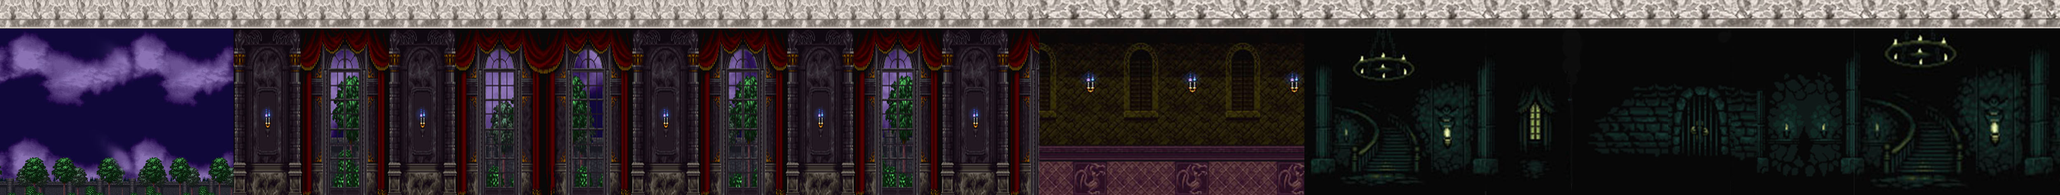
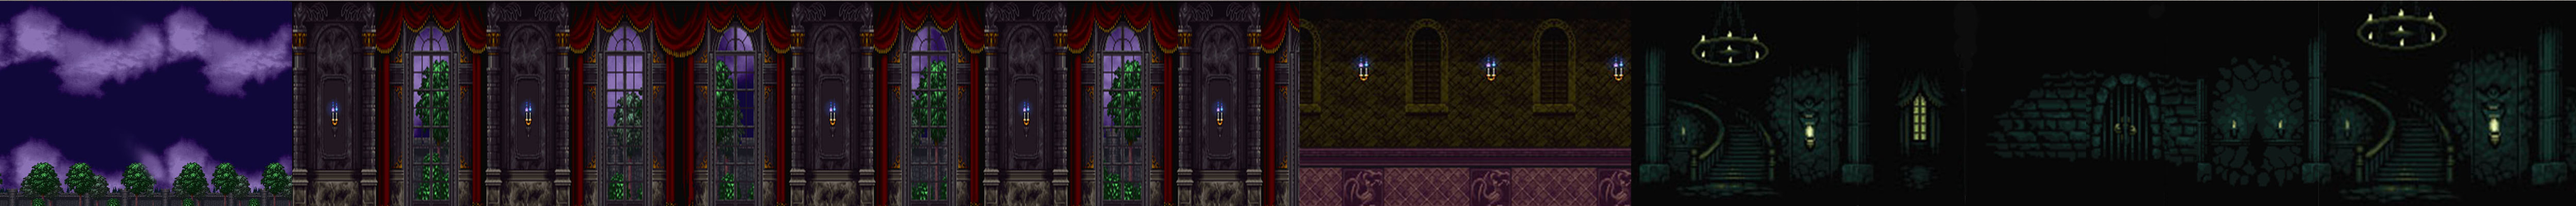
Modification de la map (tab2D et services)

diff --git a/src/app/services/map.service.ts b/src/app/services/map.service.ts
@@ -1,0 +1,28 @@
+import { Injectable } from '@angular/core';
+
+@Injectable({
+  providedIn: 'root'
+})
+
+export class MapService {
+
+  constructor() { }
+
+  public map = [
+    [2, 2, 2, 2, 2, 2, 2, 2, 2, 2, 2, 2, 2, 2, 2, 2, 2, 2, 2, 2, 2, 2, 2, 2, 2, 2, 2, 2, 2, 2, 2, 2, 2, 2, 2, 2, 2, 2, 2, 2, 2, 2, 2, 2, 2, 2, 2, 2, 2, 2, 2, 2, 2, 2, 2, 2, 2, 2, 2, 2, 2, 2, 2, 2, 2, 2, 2, 2, 2, 2, 2, 2, 2, 2, 2, 2, 2, 2, 2, 2, 2, 2, 2, 2, 2, 2, 2, 2, 2, 2, 2, 2, 2, 2, 2, 2, 2, 2, 2, 2, 2, 2, 2, 2, 2, 2, 2, 2, 2, 2, 2, 2, 2, 2, 2, 2, 2, 2, 2, 2, 2, 2, 2, 2, 2, 2, 2, 2, 2, 2, 2, 2, 2, 2, 2, 2, 2, 2, 2, 2],
+    [0, 0, 0, 0, 0, 0, 0, 0, 0, 0, 0, 0, 0, 0, 0, 0, 0, 0, 0, 0, 0, 0, 0, 0, 0, 0, 0, 0, 0, 0, 0, 0, 0, 0, 0, 0, 0, 0, 0, 0, 0, 0, 0, 0, 0, 0, 0, 0, 0, 0, 0, 0, 0, 0, 0, 0, 0, 0, 0, 0, 0, 0, 0, 3, 0, 0, 0, 0, 0, 0, 0, 0, 0, 0, 0, 0, 0, 0, 0, 3, 0, 0, 0, 0, 0, 0, 0, 0, 0, 0, 0, 0, 0, 0, 0, 0, 0, 0, 0, 0, 0, 0, 0, 0, 0, 0, 0, 0, 0, 0, 0, 0, 0, 0, 0, 0, 0, 0, 0, 0, 0, 0, 0, 0, 3, 0, 0, 0, 0, 0, 0, 0, 0, 0, 0, 0, 0, 0, 0, 0],
+    [0, 0, 0, 0, 0, 0, 0, 0, 0, 0, 0, 0, 0, 0, 0, 0, 0, 0, 0, 0, 0, 0, 0, 0, 0, 0, 0, 0, 0, 0, 0, 0, 0, 0, 0, 0, 0, 0, 0, 0, 0, 0, 0, 0, 0, 0, 0, 0, 0, 0, 0, 0, 0, 0, 0, 0, 0, 0, 0, 0, 0, 0, 0, 3, 0, 0, 0, 0, 0, 0, 0, 0, 0, 0, 0, 0, 0, 0, 0, 3, 0, 0, 0, 0, 0, 0, 0, 0, 0, 0, 0, 0, 0, 0, 0, 0, 0, 0, 0, 0, 0, 0, 0, 0, 0, 0, 0, 0, 0, 0, 0, 0, 0, 0, 0, 0, 0, 0, 0, 0, 0, 0, 0, 0, 3, 0, 0, 0, 0, 0, 0, 0, 0, 0, 0, 0, 0, 0, 0, 0],
+    [0, 0, 0, 0, 0, 0, 0, 0, 0, 0, 0, 0, 0, 0, 0, 0, 0, 0, 0, 0, 0, 0, 0, 0, 0, 0, 0, 0, 0, 0, 0, 0, 0, 0, 0, 0, 0, 0, 0, 0, 0, 0, 0, 0, 0, 0, 0, 0, 0, 0, 0, 0, 0, 0, 0, 0, 0, 0, 0, 0, 0, 0, 0, 3, 0, 0, 0, 0, 0, 0, 0, 0, 0, 0, 0, 0, 0, 0, 0, 3, 0, 0, 0, 0, 0, 0, 0, 0, 0, 0, 0, 0, 0, 0, 0, 0, 0, 0, 0, 0, 0, 0, 0, 0, 0, 0, 0, 0, 0, 0, 0, 0, 0, 0, 0, 0, 0, 0, 0, 0, 0, 0, 0, 0, 3, 0, 0, 0, 0, 0, 0, 0, 0, 0, 0, 0, 0, 0, 0, 0],
+    [0, 0, 0, 0, 0, 0, 0, 0, 0, 0, 0, 0, 0, 0, 0, 1, 1, 1, 1, 1, 0, 0, 0, 0, 0, 0, 0, 0, 0, 0, 0, 0, 0, 0, 0, 0, 0, 0, 0, 0, 0, 0, 0, 0, 0, 0, 0, 0, 0, 0, 0, 0, 0, 0, 0, 0, 0, 0, 0, 0, 0, 0, 0, 3, 0, 0, 0, 0, 0, 0, 0, 0, 0, 0, 0, 0, 0, 0, 0, 3, 0, 0, 0, 0, 0, 0, 0, 0, 0, 0, 0, 0, 0, 0, 0, 0, 0, 0, 0, 0, 0, 0, 0, 0, 0, 0, 0, 0, 0, 0, 0, 0, 0, 0, 0, 0, 0, 0, 0, 0, 0, 0, 0, 0, 3, 0, 0, 1, 1, 0, 0, 0, 0, 0, 0, 0, 0, 0, 0, 0],
+    [0, 0, 0, 0, 0, 0, 0, 0, 0, 0, 0, 0, 0, 0, 0, 0, 0, 0, 0, 0, 0, 0, 0, 0, 0, 0, 0, 0, 0, 0, 0, 0, 0, 0, 0, 0, 0, 0, 0, 0, 0, 0, 0, 0, 0, 0, 0, 0, 0, 0, 0, 0, 0, 0, 0, 0, 0, 0, 0, 0, 0, 0, 0, 3, 0, 0, 0, 0, 0, 0, 0, 0, 0, 0, 0, 0, 0, 0, 0, 3, 0, 0, 0, 0, 0, 0, 0, 0, 0, 0, 0, 0, 0, 0, 0, 0, 0, 0, 0, 0, 0, 0, 0, 0, 0, 0, 0, 0, 0, 0, 0, 0, 0, 0, 0, 0, 0, 0, 0, 0, 0, 0, 0, 0, 3, 0, 0, 0, 0, 0, 0, 0, 0, 0, 0, 0, 0, 0, 0, 0],
+    [0, 0, 0, 0, 0, 0, 0, 1, 1, 1, 1, 1, 0, 0, 0, 0, 0, 0, 0, 0, 0, 0, 0, 0, 0, 0, 0, 0, 0, 0, 0, 0, 0, 0, 0, 0, 0, 0, 0, 0, 0, 0, 0, 0, 0, 0, 0, 0, 0, 0, 0, 0, 0, 0, 0, 0, 0, 0, 0, 0, 0, 0, 0, 3, 0, 0, 0, 0, 0, 0, 0, 0, 0, 0, 0, 0, 0, 0, 0, 3, 0, 0, 0, 0, 0, 0, 0, 0, 0, 0, 1, 1, 1, 0, 0, 0, 1, 1, 1, 1, 1, 0, 0, 0, 0, 0, 0, 0, 0, 0, 0, 0, 0, 0, 0, 0, 0, 0, 0, 0, 0, 0, 0, 0, 3, 0, 0, 0, 0, 0, 1, 1, 1, 0, 0, 0, 0, 0, 0, 0],
+    [0, 0, 0, 0, 0, 0, 0, 0, 0, 0, 0, 0, 0, 0, 0, 0, 0, 0, 0, 0, 0, 0, 0, 0, 0, 0, 0, 0, 0, 0, 0, 0, 0, 0, 0, 0, 0, 0, 0, 0, 0, 0, 0, 0, 0, 0, 0, 0, 0, 0, 0, 0, 0, 0, 0, 0, 0, 0, 0, 0, 0, 0, 0, 0, 0, 0, 0, 0, 0, 0, 0, 0, 0, 0, 0, 0, 0, 0, 0, 0, 0, 0, 0, 0, 0, 0, 0, 0, 0, 0, 0, 0, 0, 0, 0, 0, 0, 0, 0, 0, 0, 0, 0, 0, 0, 0, 0, 0, 0, 0, 0, 0, 0, 0, 0, 0, 0, 0, 0, 0, 0, 0, 0, 0, 0, 0, 0, 0, 0, 0, 0, 0, 0, 0, 0, 0, 0, 0, 0, 0],
+    [0, 0, 0, 0, 0, 0, 0, 0, 0, 0, 0, 0, 0, 0, 0, 0, 0, 0, 0, 0, 0, 0, 0, 0, 0, 0, 0, 0, 0, 0, 0, 0, 0, 0, 0, 0, 0, 0, 0, 0, 0, 0, 0, 0, 0, 0, 0, 0, 0, 0, 0, 0, 0, 0, 0, 0, 0, 0, 0, 0, 0, 0, 0, 0, 0, 0, 0, 0, 0, 0, 0, 0, 0, 0, 0, 0, 0, 0, 0, 0, 0, 0, 0, 0, 0, 0, 0, 0, 0, 0, 0, 0, 0, 0, 0, 0, 0, 0, 0, 0, 0, 0, 0, 0, 0, 0, 0, 0, 0, 0, 0, 0, 0, 0, 0, 0, 0, 0, 0, 0, 0, 0, 0, 0, 0, 0, 0, 0, 0, 0, 0, 0, 0, 0, 0, 0, 0, 0, 0, 0],
+    [1, 1, 1, 1, 1, 1, 1, 1, 1, 1, 1, 1, 1, 1, 1, 1, 1, 1, 1, 1, 1, 1, 1, 1, 1, 1, 1, 1, 1, 1, 1, 1, 1, 1, 1, 1, 1, 1, 1, 1, 1, 1, 1, 1, 1, 1, 1, 1, 1, 1, 1, 1, 1, 1, 1, 1, 1, 1, 1, 1, 1, 1, 1, 1, 1, 1, 1, 1, 1, 1, 1, 1, 1, 1, 1, 1, 1, 1, 1, 1, 1, 1, 1, 1, 1, 1, 1, 1, 1, 1, 1, 1, 1, 1, 1, 1, 1, 1, 1, 1, 1, 1, 1, 1, 1, 1, 1, 1, 1, 1, 1, 1, 1, 1, 1, 1, 1, 1, 1, 1, 1, 1, 1, 1, 1, 1, 1, 1, 1, 1, 1, 1, 1, 1, 1, 1, 1, 1, 1, 1]
+  ];
+
+  getMap() {
+    return this.map;
+  }
+
+}

diff --git a/src/app/map/map.component.css b/src/app/map/map.component.css
@@ -1,126 +1,22 @@
-body {
-    color: white;
-    text-align: center;
-    /* overflow-x: hidden; */ /* Cache la scroll bar */
-  }
-  
-  #ecran {
-    width: 888px;
-    height: 500px;
-    max-height: 500px;
-    overflow: scroll;
-  }
-  
-  #zone {
-    width: 5000px;
-    height: 500px;
-    max-height: 500px;
-    background-image: url(../../assets/background.jpg)
-  }
-  
-  .floor {
-    position: relative;
-    top: 475px;
-    width: 5000px;
-    height: 25px;
-    background-image: url(../../assets/floor.jpg);
-  }
-  
-  #pers {
-    position: absolute;
-    margin-top: 425px;
-    left: 25px;
-    height: 50px;
-    width: 25px;
-    background-color: red;
-  }
-  
-  #question1 {
-    position: relative;
-    left: 500px;
-    top: 425px;
-    height: 50px;
-    width: 25px;
-    background-color: blue;
-  }
-  
-  /* #question2 {
-    position: relative;
-    left: 1000px;
-    top: 425px;
-    height: 50px;
-    width: 25px;
-    background-color: green;
-  }
-  
-  #question3 {
-    position: relative;
-    left: 1500px;
-    margin-top: 425px;
-    height: 50px;
-    width: 25px;
-    background-color: yellow;
-  }
-  
-  #question4 {
-    position: relative;
-    left: 2000px;
-    margin-top: 425px;
-    height: 50px;
-    width: 25px;
-    background-color: violet;
-  }
-  
-  #question5 {
-    position: relative;
-    left: 2500px;
-    margin-top: 425px;
-    height: 50px;
-    width: 25px;
-    background-color: cyan;
-  }
-  
-  #question6 {
-    position: relative;
-    left: 3000px;
-    margin-top: 425px;
-    height: 50px;
-    width: 25px;
-    background-color: orange;
-  }
-  
-  #question7 {
-    position: relative;
-    left: 3500px;
-    margin-top: 425px;
-    height: 50px;
-    width: 25px;
-    background-color: orangered;
-  }
-  
-  #question8 {
-    position: relative;
-    left: 4000px;
-    margin-top: 425px;
-    height: 50px;
-    width: 25px;
-    background-color: chocolate;
-  }
-  
-  #question9 {
-    position: relative;
-    left: 4500px;
-    margin-top: 425px;
-    height: 50px;
-    width: 25px;
-    background-color: firebrick;
-  }
-  
-  #question10 {
-    position: relative;
-    left: 4900px;
-    margin-top: 375px;
-    height: 100px;
-    width: 75px;
-    background-color: darkslategrey;
-  } */
+#screen {
+  width: 700px;
+  height: 502px;
+  overflow: scroll;
+  border: 10px solid red;
+}
+
+#map {
+  width: 7000px;
+  height: 500px;
+  background-image: url(../../assets/background.jpg);
+}
+
+.row {
+  height: 50px;
+}
+
+.col {
+  display: inline-flex;
+  width: 50px;
+  height: 50px;
+}

diff --git a/src/app/map/map.component.ts b/src/app/map/map.component.ts
@@ -1,4 +1,6 @@
 import { Component, OnInit, HostListener } from '@angular/core';
+import { MapService } from '../services/map.service';
+import { AssetService } from '../services/asset.service';
 
 @Component({
   selector: 'app-map',
@@ -7,9 +9,14 @@ import { Component, OnInit, HostListener } from '@angular/core';
 })
 export class MapComponent implements OnInit {
 
-  constructor() { }
+  public map: number[][];
+  public assets: {id: number; name: string; url: string}[];
+
+  constructor(public mapService: MapService, public assetService: AssetService) { }
 
   ngOnInit() {
+    this.map = this.mapService.getMap();
+    this.assets = this.assetService.getAsset();
   }
 
   @HostListener('document:keydown', ['$event']) onKeydown(event: KeyboardEvent) {

diff --git a/src/app/map/map.component.html b/src/app/map/map.component.html
@@ -1,19 +1,10 @@
-<body>
-  <h1>Castlevania Quizz</h1>
-  <div id="ecran">
-    <div id="zone">
-      <div id="pers">X</div>
-      <div class="floor"></div>
-      <div id="question1">1</div>
-      <div id="question2">2</div>
-      <div id="question3">3</div>
-      <div id="question4">4</div>
-      <div id="question5">5</div>
-      <div id="question6">6</div>
-      <div id="question7">7</div>
-      <div id="question8">8</div>
-      <div id="question9">9</div>
-      <div id="question10">BOSS</div>
+<div id="screen">
+
+  <div id="map">
+    <div class="row" *ngFor="let row of map">
+      <div class="col" *ngFor="let col of row" [ngStyle]="{'background-image': assets[col].url}">
+      </div>
     </div>
   </div>
-</body>
+
+</div>

diff --git a/src/app/app.module.ts b/src/app/app.module.ts
@@ -4,6 +4,8 @@ import { NgModule } from '@angular/core';
 import { AppRoutingModule } from './app-routing.module';
 import { AppComponent } from './app.component';
 import { MapComponent } from './map/map.component';
+import { AssetService } from './services/asset.service';
+import { MapService } from './services/map.service';
 
 @NgModule({
   declarations: [
@@ -14,7 +16,10 @@ import { MapComponent } from './map/map.component';
     BrowserModule,
     AppRoutingModule
   ],
-  providers: [],
+  providers: [
+    MapService,
+    AssetService
+  ],
   bootstrap: [AppComponent]
 })
 export class AppModule { }

diff --git a/src/app/services/asset.service.ts b/src/app/services/asset.service.ts
@@ -1,0 +1,21 @@
+import { Injectable } from '@angular/core';
+
+@Injectable({
+  providedIn: 'root'
+})
+export class AssetService {
+
+  public assets = [
+    { id: 0, name: 'void', url: 'url("../../assets/void.png")' },
+    { id: 1, name: 'floor', url: 'url("../../assets/floor.jpg")' },
+    { id: 2, name: 'ceil', url: 'url("../../assets/ceil.jpg")' },
+    { id: 3, name: 'wall', url: 'url("../../assets/wall.jpg")' },
+  ];
+
+  constructor() { }
+
+  getAsset() {
+    return this.assets;
+  }
+
+}
